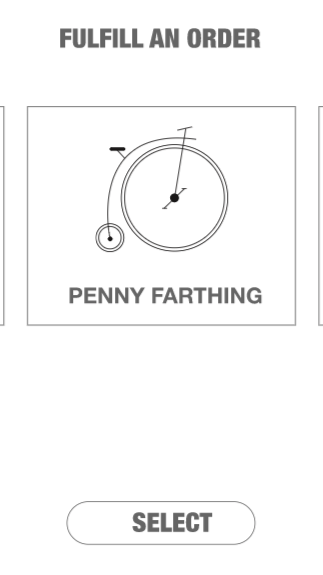
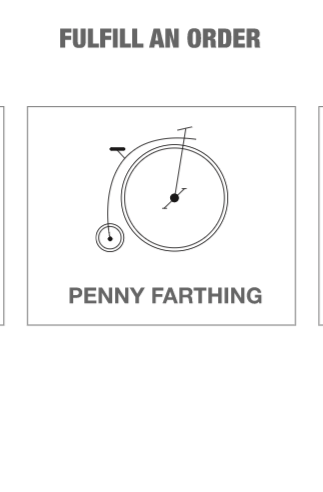
adding c-button to pages. added global styles. added demo.html page

diff --git a/phone-app/src/pages/p-order-frame.ts b/phone-app/src/pages/p-order-frame.ts
@@ -2,10 +2,10 @@ import { LitElement, html, css } from 'lit';
 import { property, state } from 'lit/decorators.js';
 import { StoreBase } from '../store.js';
 import '../components/c-order-page.js';
-import '../components/c-sketch.js';
+import '../components/c-button.js';
 
 export class POrderFrame extends StoreBase {
-  static styles = css`
+  static styles = [...super.styles, css`
     :host {
       display: block;
     }
@@ -21,15 +21,15 @@ export class POrderFrame extends StoreBase {
       height: 246px;
       left: calc(50% - 150px);
     }
-  `;
+  `];
 
   render() {
     return html`
       <c-order-page id="page">
-        <a href="#" @click=${() => this.order?.send({ type: 'NEXT' })}>
+        <a href="#">
           <img src=${new URL('../../../assets/page-4.png', import.meta.url)}>
         </a>
-        <c-sketch id="sketch"></c-sketch>
+        <c-button @click=${() => this.order?.send({ type: 'NEXT' })}>Next</c-button>
       </c-order-page>
     `;
   }

diff --git a/phone-app/src/pages/p-default.ts b/phone-app/src/pages/p-default.ts
@@ -2,9 +2,10 @@ import { LitElement, html, css } from 'lit';
 import { property, state } from 'lit/decorators.js';
 import { StoreBase } from '../store.js';
 import '../components/c-page.js';
+import '../components/c-button.js';
 
 export class PDefault extends StoreBase {
-  static styles = css`
+  static styles = [...super.styles, css`
     :host {
       display: block;
     }
@@ -12,14 +13,13 @@ export class PDefault extends StoreBase {
     img {
       display: block;
     }
-  `;
+  `];
 
   render() {
     return html`
       <c-page>
-        <a href="#" @click=${() => this.store.send({ type: 'FULFILL', orderId: 1 })}>
-          <img src=${new URL('../../../assets/page-2.png', import.meta.url)}>
-        </a>
+        <img src=${new URL('../../../assets/page-2.png', import.meta.url)}>
+        <c-button @click=${() => this.store.send({ type: 'FULFILL', orderId: 1 })}>Select</c-button>
       </c-page>
     `;
   }

diff --git a/phone-app/src/pages/p-order-shipping.ts b/phone-app/src/pages/p-order-shipping.ts
@@ -4,21 +4,14 @@ import { StoreBase } from '../store.js';
 import '../components/c-order-page.js';
 
 export class POrderShipping extends StoreBase {
-  static styles = css`
-    :host {
-      display: block;
-    }
-  `;
-
   render() {
+    const isSaving = this.order?.state.matches('save');
     return html`
       <c-order-page>
-        <a href="#" @click=${() => this.order?.send({ type: 'NEXT' })}>
-          <img src=${new URL('../../../assets/page-9.png', import.meta.url)}>
-        </a>
-        ${this.order?.state.matches('save') ? html`
-          <div>...Saving</div>
-        ` : ''}
+        <img src=${new URL('../../../assets/page-9.png', import.meta.url)}>
+        <c-button .disabled=${isSaving} @click=${() => this.order?.send({ type: 'NEXT' })}>
+          ${isSaving ? html` ...Saving ` : html` Ship it!  `}
+        </c-button>
       </c-order-page>
     `;
   }

diff --git a/phone-app/src/pages/p-order-handles.ts b/phone-app/src/pages/p-order-handles.ts
@@ -2,20 +2,14 @@ import { LitElement, html, css } from 'lit';
 import { property, state } from 'lit/decorators.js';
 import { StoreBase } from '../store.js';
 import '../components/c-order-page.js';
+import '../components/c-button.js';
 
 export class POrderHandles extends StoreBase {
-  static styles = css`
-    :host {
-      display: block;
-    }
-  `;
-
   render() {
     return html`
       <c-order-page>
-        <a href="#" @click=${() => this.order?.send({ type: 'NEXT' })}>
-          <img src=${new URL('../../../assets/page-8.png', import.meta.url)}>
-        </a>
+        <img src=${new URL('../../../assets/page-8.png', import.meta.url)}>
+        <c-button @click=${() => this.order?.send({ type: 'NEXT' })}>Select</c-button>
       </c-order-page>
     `;
   }

diff --git a/phone-app/src/pages/p-order-wheels.ts b/phone-app/src/pages/p-order-wheels.ts
@@ -2,20 +2,14 @@ import { LitElement, html, css } from 'lit';
 import { property, state } from 'lit/decorators.js';
 import { StoreBase } from '../store.js';
 import '../components/c-order-page.js';
+import '../components/c-button.js';
 
 export class POrderWheels extends StoreBase {
-  static styles = css`
-    :host {
-      display: block;
-    }
-  `;
-
   render() {
     return html`
       <c-order-page>
-        <a href="#" @click=${() => this.order?.send({ type: 'NEXT' })}>
-          <img src=${new URL('../../../assets/page-7.png', import.meta.url)}>
-        </a>
+        <img src=${new URL('../../../assets/page-7.png', import.meta.url)}>
+        <c-button @click=${() => this.order?.send({ type: 'NEXT' })}>Select</c-button>
       </c-order-page>
     `;
   }

diff --git a/phone-app/src/pages/p-order-seat.ts b/phone-app/src/pages/p-order-seat.ts
@@ -2,20 +2,14 @@ import { LitElement, html, css } from 'lit';
 import { property, state } from 'lit/decorators.js';
 import { StoreBase } from '../store.js';
 import '../components/c-order-page.js';
+import '../components/c-button.js';
 
 export class POrderSeat extends StoreBase {
-  static styles = css`
-    :host {
-      display: block;
-    }
-  `;
-
   render() {
     return html`
       <c-order-page>
-        <a href="#" @click=${() => this.order?.send({ type: 'NEXT' })}>
-          <img src=${new URL('../../../assets/page-6.png', import.meta.url)}>
-        </a>
+        <img src=${new URL('../../../assets/page-6.png', import.meta.url)}>
+        <c-button @click=${() => this.order?.send({ type: 'NEXT' })}>Select</c-button>
       </c-order-page>
     `;
   }

diff --git a/phone-app/src/pages/p-order-bake.ts b/phone-app/src/pages/p-order-bake.ts
@@ -2,20 +2,14 @@ import { LitElement, html, css } from 'lit';
 import { property, state } from 'lit/decorators.js';
 import { StoreBase } from '../store.js';
 import '../components/c-order-page.js';
+import '../components/c-button.js';
 
 export class POrderBake extends StoreBase {
-  static styles = css`
-    :host {
-      display: block;
-    }
-  `;
-
   render() {
     return html`
       <c-order-page>
-        <a href="#" @click=${() => this.order?.send({ type: 'NEXT' })}>
-          <img src=${new URL('../../../assets/page-5.png', import.meta.url)}>
-        </a>
+        <img src=${new URL('../../../assets/page-5.png', import.meta.url)}>
+        <c-button @click=${() => this.order?.send({ type: 'NEXT' })}>Next</c-button>
       </c-order-page>
     `;
   }

diff --git a/phone-app/src/pages/p-order-color.ts b/phone-app/src/pages/p-order-color.ts
@@ -2,20 +2,14 @@ import { LitElement, html, css } from 'lit';
 import { property, state } from 'lit/decorators.js';
 import { StoreBase } from '../store.js';
 import '../components/c-order-page.js';
+import '../components/c-button.js';
 
 export class POrderColor extends StoreBase {
-  static styles = css`
-    :host {
-      display: block;
-    }
-  `;
-
   render() {
     return html`
       <c-order-page>
-				<a href="#" @click=${() => this.order?.send({ type: 'NEXT' })}>
-					<img src=${new URL('../../../assets/page-3.png', import.meta.url)}>
-				</a>
+        <img src=${new URL('../../../assets/page-3.png', import.meta.url)}>
+        <c-button @click=${() => this.order?.send({ type: 'NEXT' })}>Spray</c-button>
       </c-order-page>
     `;
   }

diff --git a/phone-app/demo.html b/phone-app/demo.html
@@ -10,14 +10,9 @@
   <style>
     html,
     body {
-      margin: 0;
-      padding: 0;
-      font-family: sans-serif;
-      display: flex;
-      min-height: 100vh;
-      justify-content: center;
-      align-items: center;
-      gap: 1em;
+      font-size: 1rem;
+      margin: 1em;
+
     }
     bike-factory {
       text-align: center;
@@ -27,8 +22,14 @@
 </head>
 
 <body>
-  <bike-factory></bike-factory>
-  <script type="module" src="./out-tsc/src/bike-factory.js"></script>
+  <h1>Components</h1>
+
+  <h3>c-button</h3>
+  <c-button>Start</c-button>
+  <br>
+  <c-button disabled>...Saving</c-button>
+
+  <script type="module" src="./out-tsc/src/components/c-button.js"></script>
 </body>
 
 </html>

diff --git a/phone-app/src/components/c-button.ts b/phone-app/src/components/c-button.ts
@@ -1,0 +1,25 @@
+import { css, html } from 'lit';
+import { property } from 'lit/decorators.js';
+import { variable } from '../globals.js';
+import { StoreBase, StoreSubscriptionController } from '../store.js';
+import type { Store, OrderRef } from '../store.js';
+
+export class CButton extends StoreBase {
+  static styles = [...super.styles, css`
+		button {
+			font-size: 1.2rem;
+		}
+  `];
+
+	@property({ type: Boolean, reflect: true }) public disabled = false;
+
+  render() {
+    return html`
+			<div class="base" part="base">
+				<button ?disabled=${this.disabled}><slot></slot></button>
+			</div>
+    `;
+  }
+}
+
+customElements.define('c-button', CButton);

diff --git a/phone-app/src/components/c-page.ts b/phone-app/src/components/c-page.ts
@@ -1,9 +1,10 @@
 import { LitElement, html, css } from 'lit';
 import { property, state } from 'lit/decorators.js';
+import { StoreBase } from '../store.js';
 import { variable } from '../globals.js';
 
-export class CPage extends LitElement {
-  static styles = css`
+export class CPage extends StoreBase {
+  static styles = [...super.styles, css`
     :host {
       display: flex;
       min-height: calc(100vh - calc(${variable('navHeight')} * 2));
@@ -12,7 +13,7 @@ export class CPage extends LitElement {
       justify-content: center;
       align-items: center;
     }
-  `;
+  `];
 
   render() {
     return html`

diff --git a/phone-app/src/store.ts b/phone-app/src/store.ts
@@ -6,6 +6,7 @@ import type { Order, OrderId } from './machines/orders.js';
 import { orderMachine } from './machines/orders.js';
 import { socketCallback } from './machines/socket.js';
 import type { ConfigurationEvent } from './machines/socket.js';
+import styles from './global.css.js';
 
 export type OrderRef = Interpreter<Order> | null;
 
@@ -201,6 +202,8 @@ export class StoreSubscriptionController<T> implements ReactiveController {
 export class StoreBase extends LitElement {
   protected store;
 	protected order: OrderRef = null;
+
+	static styles = [styles];
 
   constructor() {
     super();
